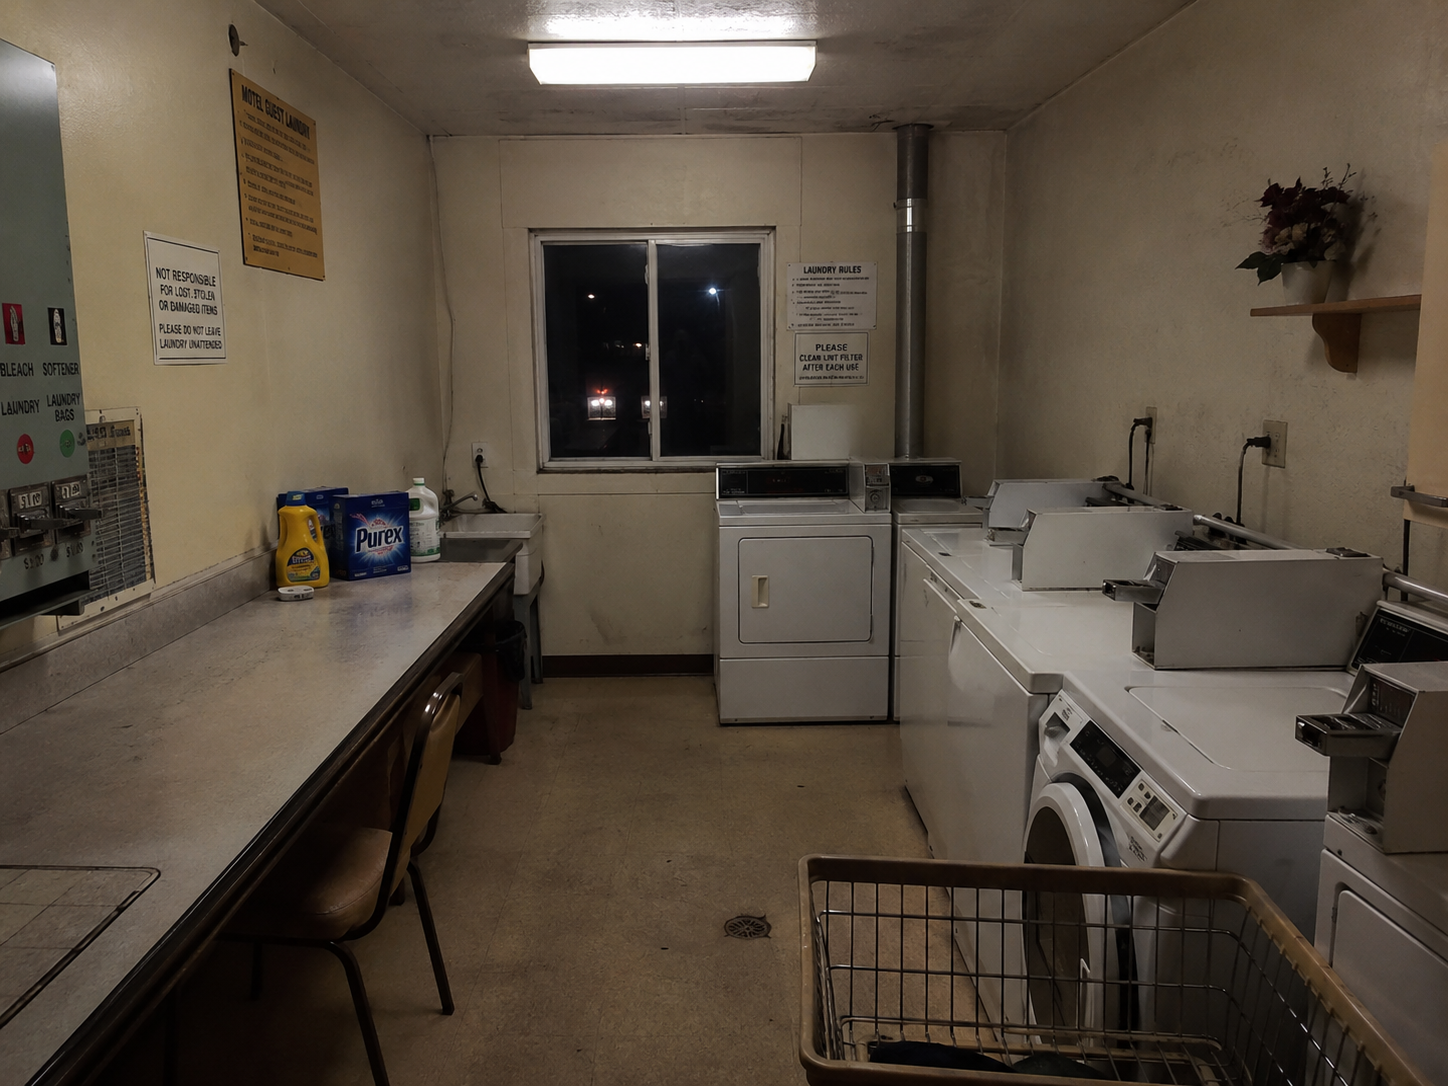
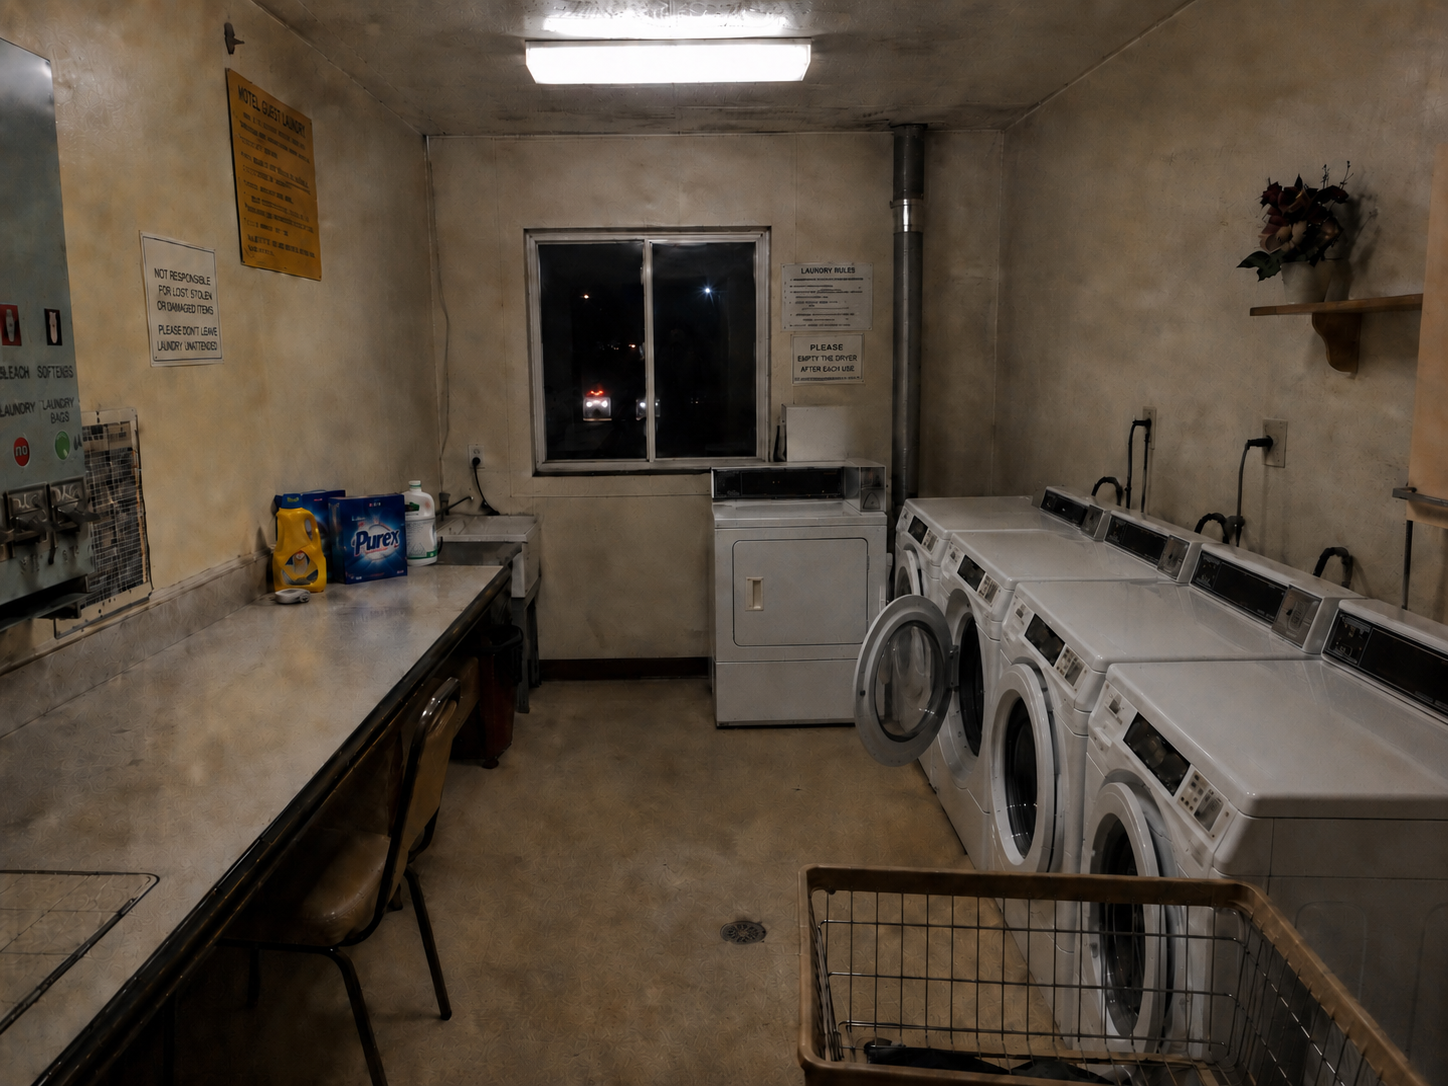
feat: toggle laundry washer door

diff --git a/README.md b/README.md
@@ -18,7 +18,9 @@ Godot 4 GDScript starter for a 2.5D photo-based point-and-click hotel game.
 - `resource/room_108_bathroom_entry.png`: room 108 bathroom entry angle
 - `resource/room_108_bathroom.png`: room 108 reused bathroom angle
 - `resource/exterior_stairs.png`: exterior stairs
-- `resource/laundry_room.png`: laundry room
+- `resource/laundry_room.png`: laundry room with the second washer door open
+- `resource/laundry_room_washer_closed.png`: laundry room with the second washer door closed
+- `resource/prev/prev_laundry_room.png`: archived previous laundry room photo, disconnected from scenes
 - `resource/prev/prev_room_106_bed_window.png`: archived previous room 106 photo, disconnected from scenes
 
 ## Start
@@ -82,6 +84,7 @@ To move to another scene when clicked, use `target`:
 - Room 108 Bathroom: click the door to return to the Bathroom Entry.
 - Front Desk: click the left edge to enter the Laundry Room.
 - Laundry Room: click the bottom edge to return to the Front Desk.
+- Laundry Room: click the second washer to toggle its door open or closed.
 
 ## Dialogue
 
